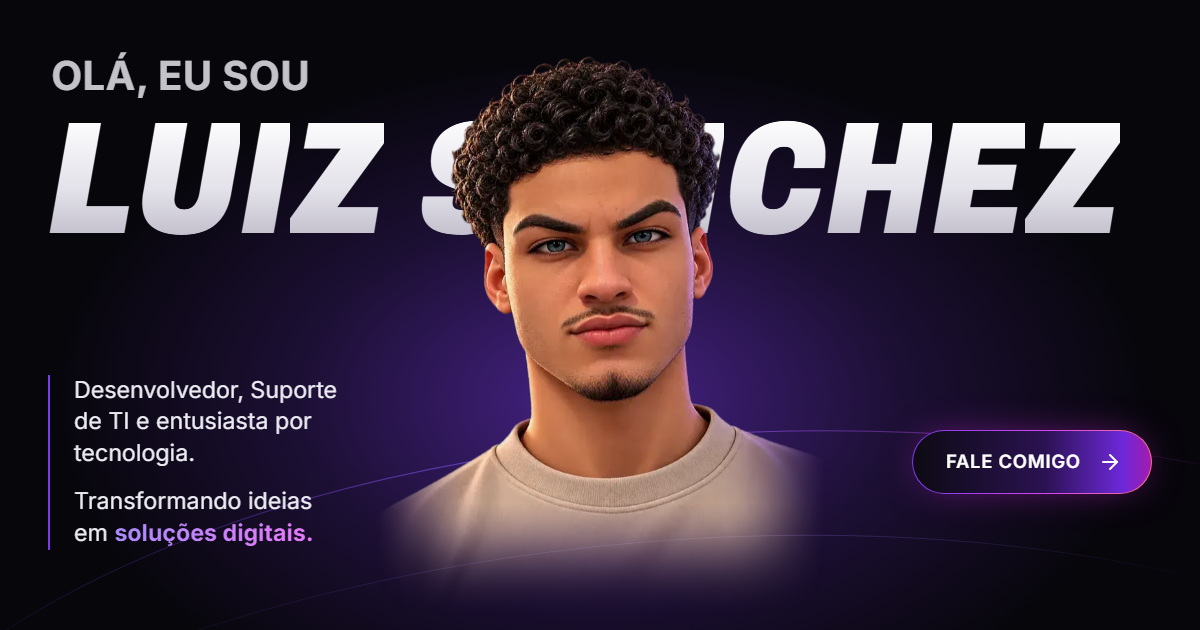
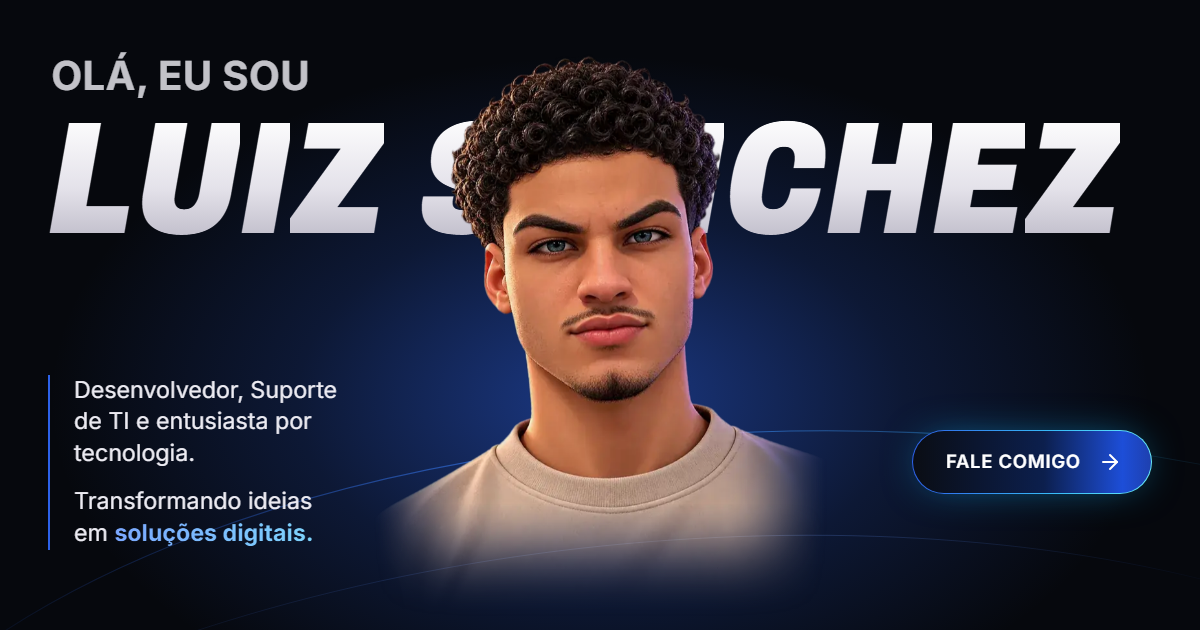
Troca os detalhes roxos por azul no tema escuro
- Cor principal volta ao azul do site; degradês em azul → azul-claro
- Fundo escuro com leve tom azulado
- Favicon e og.png refeitos em azul

diff --git a/src/styles/global.css b/src/styles/global.css
@@ -12,27 +12,27 @@
 
 @theme {
   /* Fundo escuro e superfícies */
-  --color-night: #07060b;
-  --color-night-2: #0e0c15;
-  --color-night-3: #16131f;
+  --color-night: #06080d;
+  --color-night-2: #0b0f17;
+  --color-night-3: #111725;
   --color-paper: var(--color-night);
   --color-paper-2: var(--color-night-2);
   /* ink: texto escuro sobre selos claros (amarelo, verde, lilás) */
-  --color-ink: #14121a;
-  --color-ink-2: #15121e;
-  --color-ink-3: #211d2b;
-  --color-muted: #a8a2b8;
-  --color-line: #221e2d;
-  /* Roxo */
-  --color-accent: #7c3aed;
-  --color-accent-deep: #5b21b6;
-  --color-accent-ink: #5b21b6;
-  --color-lilac: #c4a5ff;
-  --color-pink: #e879f9;
+  --color-ink: #14161b;
+  --color-ink-2: #121826;
+  --color-ink-3: #1c2333;
+  --color-muted: #a3abbd;
+  --color-line: #1d2433;
+  /* Azul */
+  --color-accent: #2d62ea;
+  --color-accent-deep: #1f45c9;
+  --color-accent-ink: #1f45c9;
+  --color-lilac: #9cbcff;
+  --color-sky: #7dd3fc;
   --color-yellow: #f5b82e;
   --color-green: #22c55e;
   --color-on-dark: #ecebf2;
-  --color-on-dark-muted: #a8a2b8;
+  --color-on-dark-muted: #a3abbd;
 
   --font-display: 'Archivo Display', 'Arial Black', ui-sans-serif, system-ui, sans-serif;
   --font-sans: 'Inter', ui-sans-serif, system-ui, sans-serif;
@@ -42,14 +42,14 @@
 }
 
 @utility bg-accent-grad {
-  background: linear-gradient(120deg, #5b21b6 0%, #7c3aed 50%, #a21caf 100%);
+  background: linear-gradient(120deg, #1f45c9 0%, #2d62ea 50%, #1e40af 100%);
 }
-/* Borda em degradê roxo → rosa → coral, como os botões da referência */
+/* Borda em degradê azul → céu → ciano */
 @utility border-grad {
   border: 1.5px solid transparent;
   background:
     linear-gradient(var(--grad-fill, var(--color-night)), var(--grad-fill, var(--color-night))) padding-box,
-    linear-gradient(90deg, #7c3aed, #d946ef 60%, #fb7185) border-box;
+    linear-gradient(90deg, #2d62ea, #38bdf8 60%, #67e8f9) border-box;
 }
 
 @layer base {
@@ -95,15 +95,15 @@
     @apply inline-flex items-center rounded-full px-3 py-1 text-[0.8rem] font-semibold leading-5;
   }
   .pill-white { @apply bg-white text-accent-ink; }
-  .pill-dark, .pill-soft { background: rgb(124 58 237 / 0.18); color: #ddccff; box-shadow: inset 0 0 0 1px rgb(196 165 255 / 0.18); }
+  .pill-dark, .pill-soft { background: rgb(45 98 234 / 0.18); color: #d3e0ff; box-shadow: inset 0 0 0 1px rgb(156 188 255 / 0.18); }
 
   .btn {
     @apply inline-flex items-center justify-center gap-2 rounded-full px-6 py-3 text-[0.95rem] font-semibold transition-[transform,background-color,box-shadow] duration-200;
     min-height: 48px;
   }
   .btn:active { transform: translateY(1px); }
-  .btn-primary { @apply bg-accent-grad text-white; box-shadow: 0 12px 30px -12px rgb(124 58 237 / 0.8); }
-  .btn-primary:hover { box-shadow: 0 16px 38px -12px rgb(192 38 211 / 0.85); }
+  .btn-primary { @apply bg-accent-grad text-white; box-shadow: 0 12px 30px -12px rgb(45 98 234 / 0.8); }
+  .btn-primary:hover { box-shadow: 0 16px 38px -12px rgb(14 165 233 / 0.85); }
   .btn-ghost { @apply border border-white/15 text-white; }
   .btn-ghost:hover { @apply bg-white/5; }
 

diff --git a/src/data/site.ts b/src/data/site.ts
@@ -5,7 +5,7 @@ export const site = {
     'Portfólio de Luiz Sanchez: Service Desk, infraestrutura e desenvolvimento de ferramentas internas. São Paulo, SP.',
   saudacao: 'Olá, eu sou',
   subtitulo: 'Desenvolvedor, Suporte de TI e entusiasta por tecnologia.',
-  // Trecho entre ** fica em destaque roxo
+  // Trecho entre ** fica em destaque azul
   frase: 'Transformando ideias em **soluções digitais.**',
   local: 'São Paulo, SP',
   ctas: {
